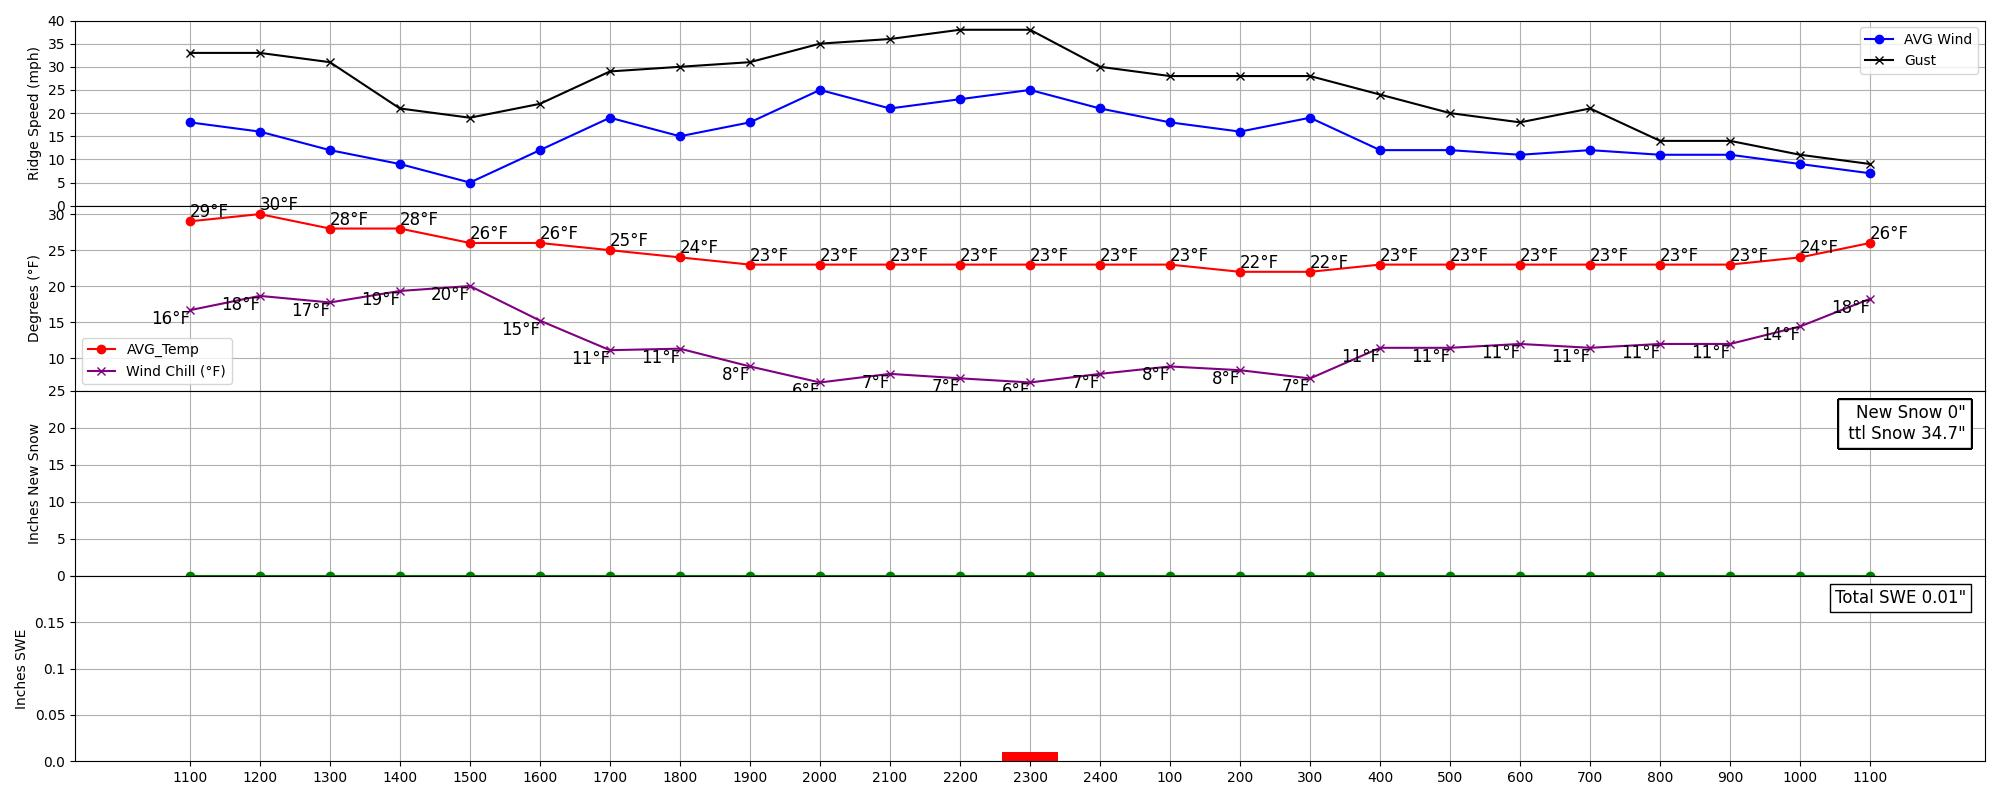
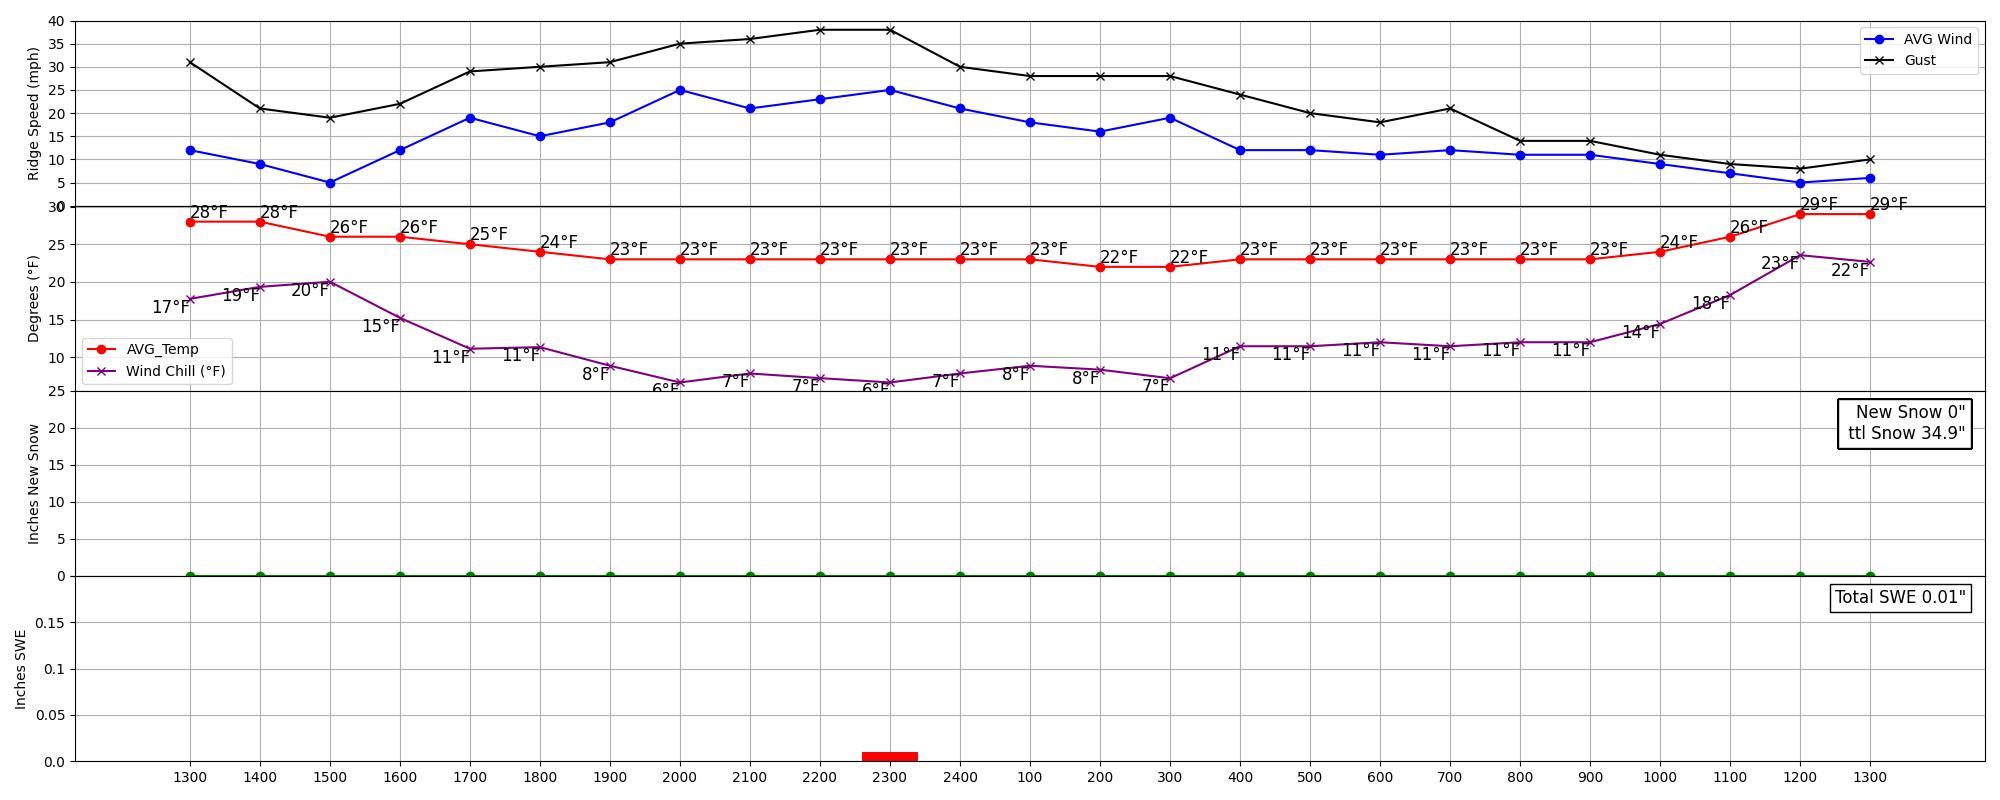
hosting

diff --git a/modified_HTML_file.html b/modified_HTML_file.html
@@ -66,11 +66,7 @@
 </head>
 <body>
     <img src="7216381.png" class="corner-icon" alt="Icon">
-<<<<<<< HEAD
-    <p id="myText">YCSP Timberline Weather Report - Last Update 11:55AM Tuesday January 23rd 2024</p>
-=======
-    <p id="myText">YCSP Timberline Weather Report - Last Update 1:25PM Tuesday January 23rd 2024</p>
->>>>>>> e8a81140e6782d4be216f918aee99f4ce9534a90
+    <p id="myText">YCSP Timberline Weather Report - Last Update 12:30PM Tuesday January 23rd 2024</p>
     <hr>
     <div style="display: flex;">
         <!-- Left Column: Image -->
@@ -177,8 +173,6 @@
         </thead>
         <tbody>
             <tr>
-<<<<<<< HEAD
-=======
 <td>13:00 Tue</td>
 <td>29</td>
 <td>78</td>
@@ -207,7 +201,6 @@
 <td>7</td>
 </tr>
 <tr>
->>>>>>> e8a81140e6782d4be216f918aee99f4ce9534a90
 <td>11:00 Tue</td>
 <td>26</td>
 <td>83</td>
@@ -529,37 +522,6 @@
 <td>SE</td>
 <td>20</td>
 </tr>
-<<<<<<< HEAD
-<tr>
-<td>12:00 Mon</td>
-<td>30</td>
-<td>72</td>
-<td>0.0</td>
-<td>0</td>
-<td>35.4</td>
-<td>16</td>
-<td>SW</td>
-<td>33</td>
-<td>6</td>
-<td>SW</td>
-<td>22</td>
-</tr>
-<tr>
-<td>11:00 Mon</td>
-<td>29</td>
-<td>74</td>
-<td>0.0</td>
-<td>0</td>
-<td>35.4</td>
-<td>18</td>
-<td>SW</td>
-<td>33</td>
-<td>6</td>
-<td>SW</td>
-<td>22</td>
-</tr>
-=======
->>>>>>> e8a81140e6782d4be216f918aee99f4ce9534a90
 
         </tbody>
         </tbody>

diff --git a/index.html b/index.html
@@ -66,7 +66,7 @@
 </head>
 <body>
     <img src="7216381.png" class="corner-icon" alt="Icon">
-    <p id="myText">YCSP Timberline Weather Report - Last Update 1:25PM Tuesday January 23rd 2024</p>
+    <p id="myText">YCSP Timberline Weather Report - Last Update 12:30PM Tuesday January 23rd 2024</p>
     <hr>
     <div style="display: flex;">
         <!-- Left Column: Image -->
